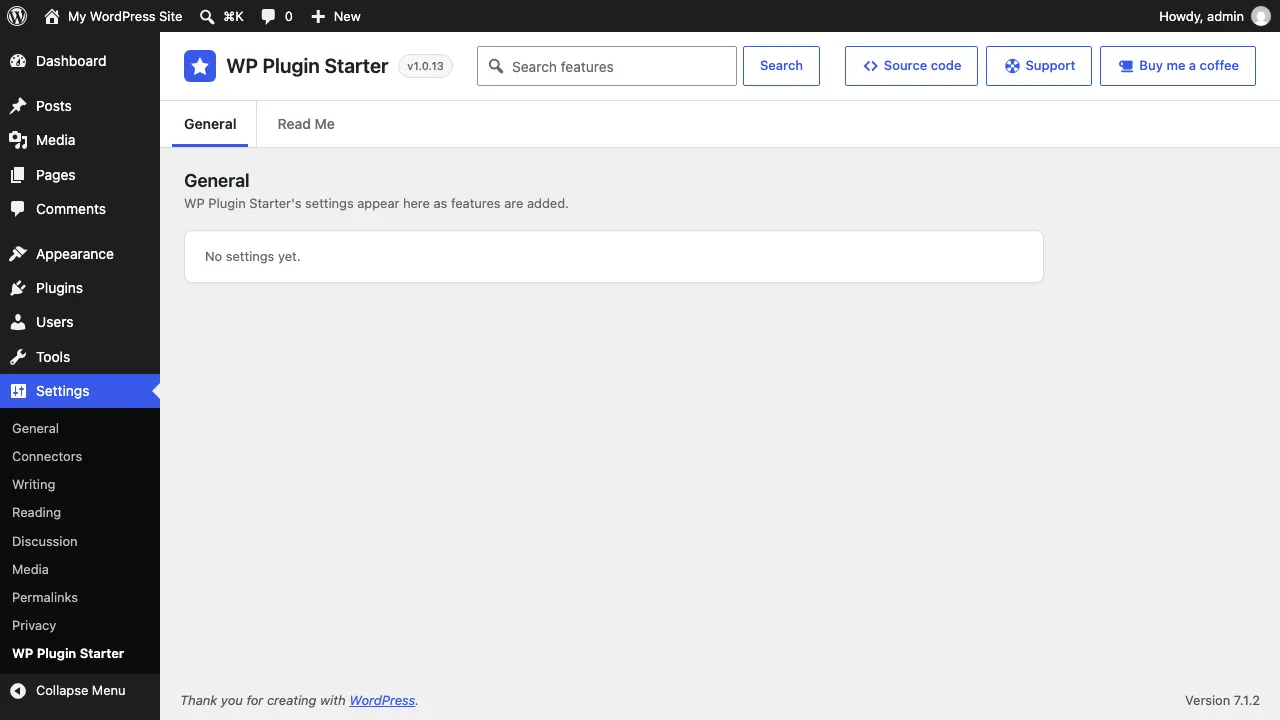
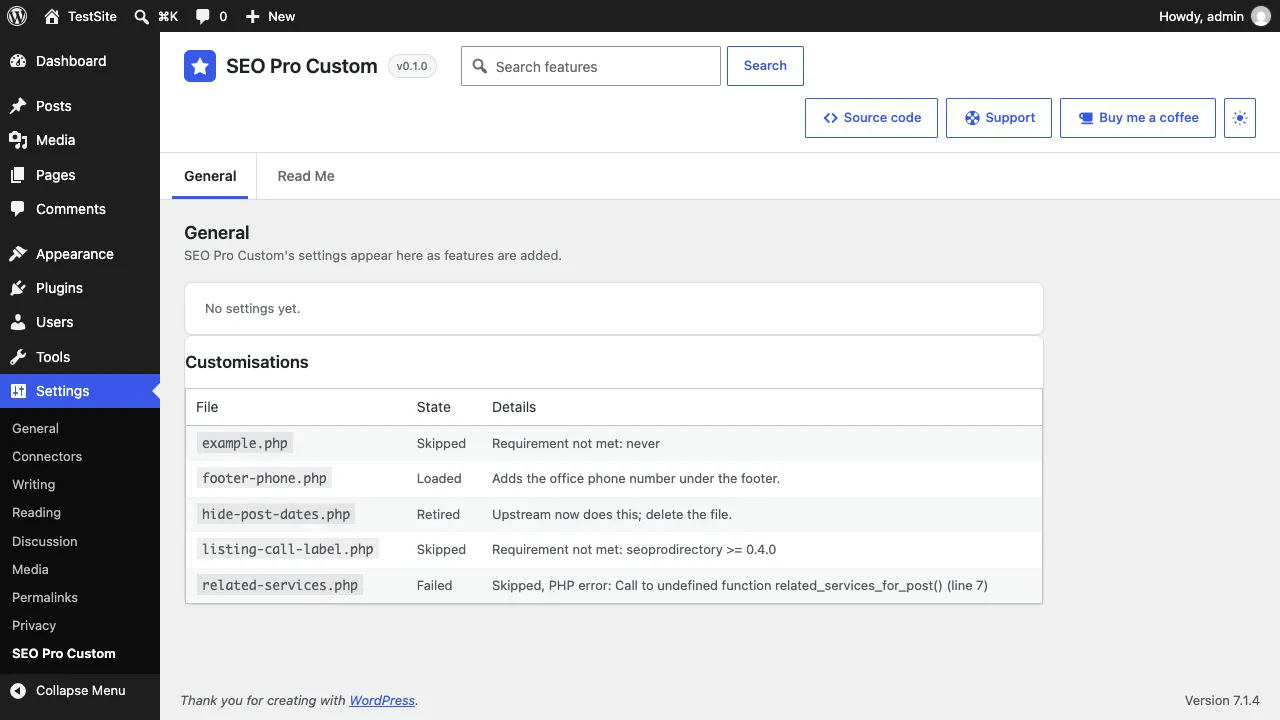
chore: Updates from GitHub picture and screenshot copies
docs/images/github-update.png now shows SEO Pro Custom (staged update offer on the Docker test site). admin/images/screenshot-N.webp rebuilt with scripts/build-banner.sh.

diff --git a/README.md b/README.md
@@ -38,7 +38,7 @@ Version: 0.1.0
 
 **Updates from GitHub** (GitHub build): each release of your copy is offered on the Plugins screen as a normal WordPress update.
 
-![The Plugins screen offering an update from GitHub](docs/images/github-update.png)
+![The Plugins screen offering SEO Pro Custom 0.1.1 from GitHub](docs/images/github-update.png)
 <!-- github-only:end -->
 
 ## When to use it
